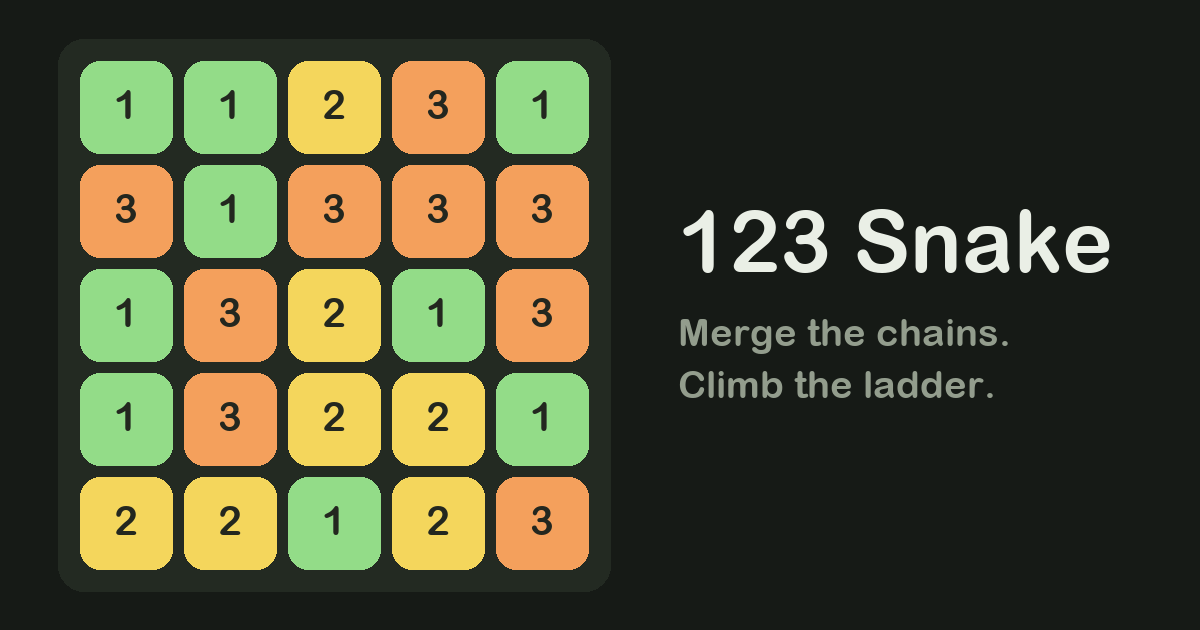
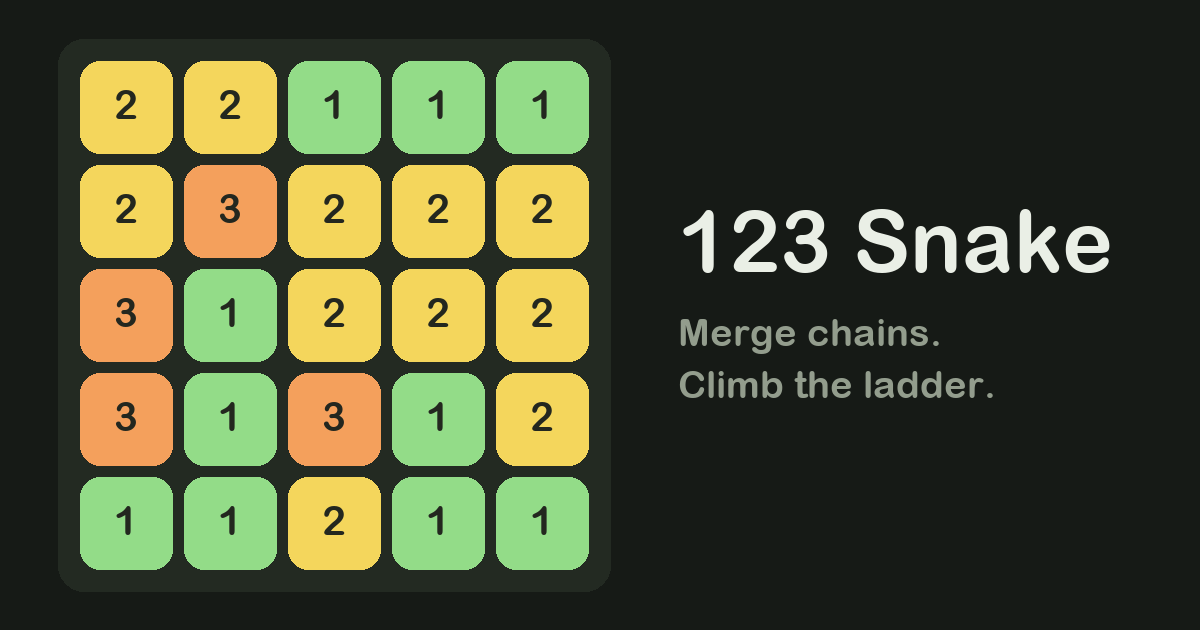
OG tagline: 'Merge chains. Climb the ladder.'; ignore root .wrangler

Changed region(s): [[0.0617, 0.0905, 0.4933, 0.9048], [0.6783, 0.5127, 0.8325, 0.573]]

diff --git a/build.py b/build.py
@@ -155,7 +155,7 @@ def build_og_image() -> None:
     d.text((tx, 190), "123 Snake", font=font(86), fill=(234, 239, 230))
     d.text(
         (tx, 310),
-        "Merge the chains.",
+        "Merge chains.",
         font=font(38),
         fill=(147, 157, 141),
     )
